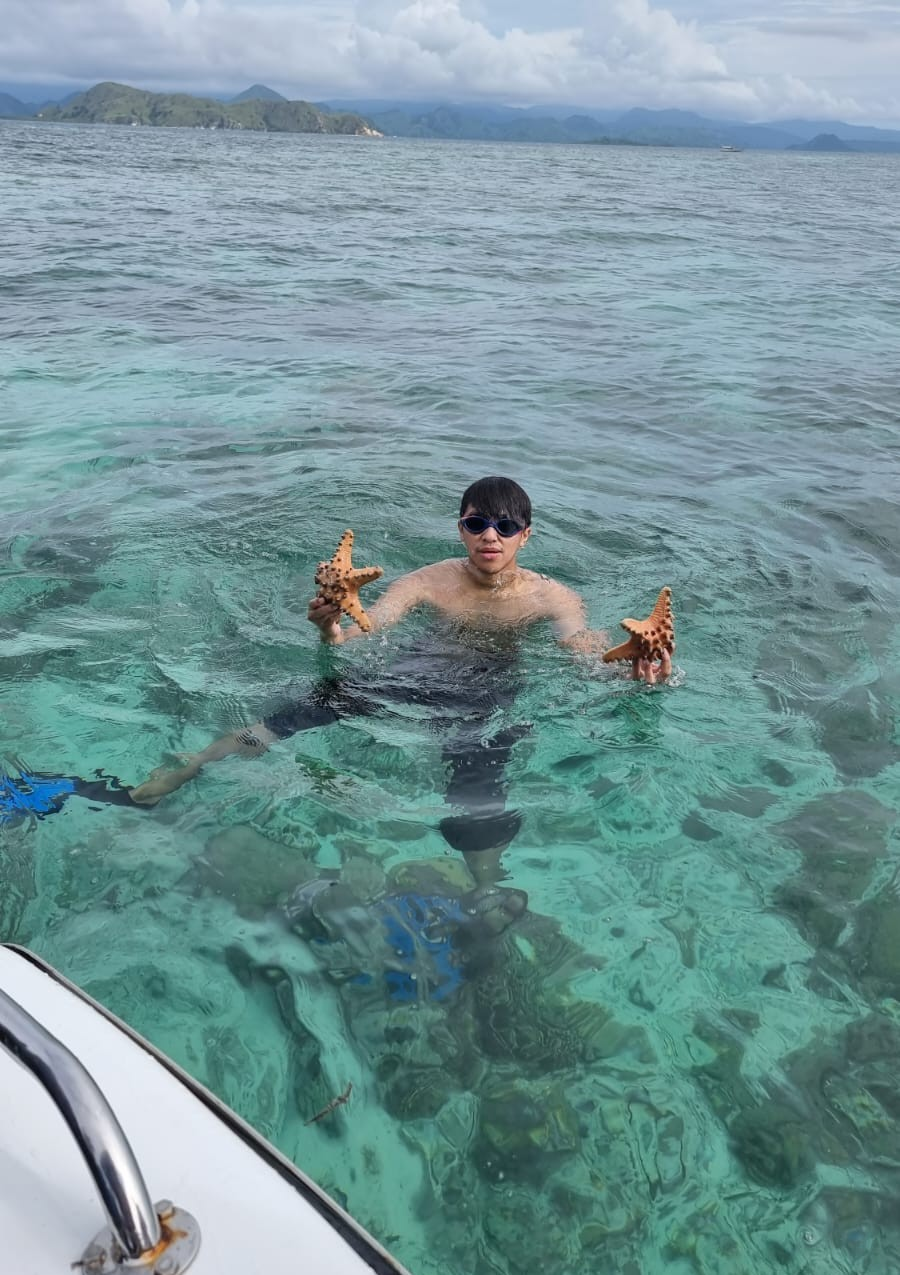
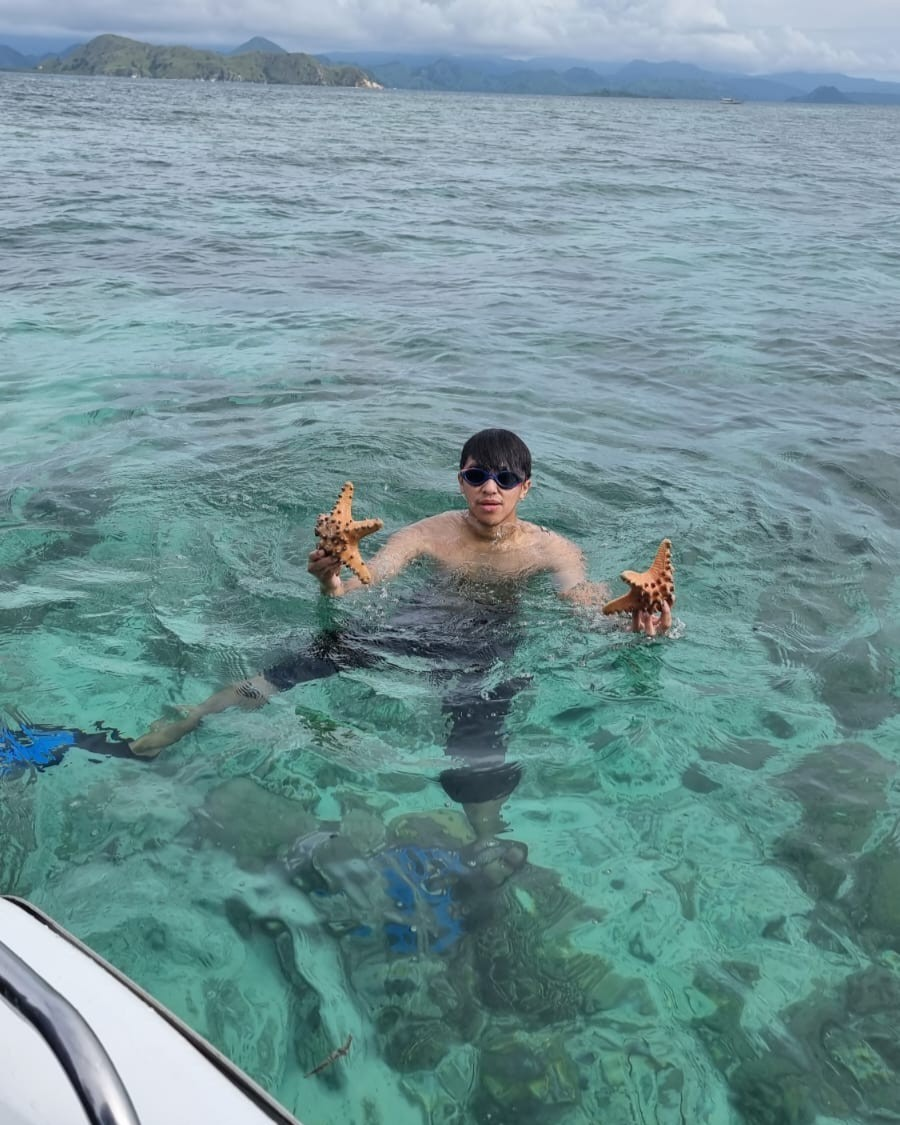
Adding extra photos and also fixes some bad codes

diff --git a/app/ui/AboutPage/SmallGallery.tsx b/app/ui/AboutPage/SmallGallery.tsx
@@ -35,8 +35,7 @@ export default function SmallGallery({ gallery }: { gallery: Snapshot[] }) {
               // Make the image fill the column width and keep natural height:
               sizes="(min-width: 640px) 33vw, 50vw"
               style={{ width: "100%", height: "auto" }}
-              // Use cover for the same feel as your sample; switch to `object-contain` if you hate any cropping
-              className="cursor-pointer w-full h-auto object-cover grayscale-30 opacity-80 transition-all duration-300 hover:grayscale-0 hover:opacity-90"
+              className="cursor-pointer w-full h-auto object-contain grayscale-30 opacity-80 transition-all duration-300 hover:grayscale-0 hover:opacity-90"
               loading="lazy"
             />
           </motion.div>

diff --git a/app/data/snapshot_gallery.ts b/app/data/snapshot_gallery.ts
@@ -7,8 +7,10 @@ export const GALLERY: Snapshot[] = [
   { src: "/gallery/photo_3.jpg", alt: "Snapshot 3" },
   { src: "/gallery/photo_4.jpg", alt: "Snapshot 4" },
   { src: "/gallery/photo_2.jpg", alt: "Snapshot 2" },
-  { src: "/gallery/photo_5.jpg", alt: "Snapshot 5" },
-  { src: "/gallery/photo_1.jpg", alt: "Snapshot 1" },
-  { src: "/gallery/photo_6.jpg", alt: "Snapshot 6" },
   { src: "/gallery/photo_7.jpg", alt: "Snapshot 7" },
+  { src: "/gallery/photo_6.jpg", alt: "Snapshot 6" },
+  { src: "/gallery/photo_5.jpg", alt: "Snapshot 5" },
+  { src: "/gallery/photo_8.jpg", alt: "Snapshot 8" },
+  { src: "/gallery/photo_9.jpg", alt: "Snapshot 9" },
+  { src: "/gallery/photo_10.jpg", alt: "Snapshot 10" },
 ];
